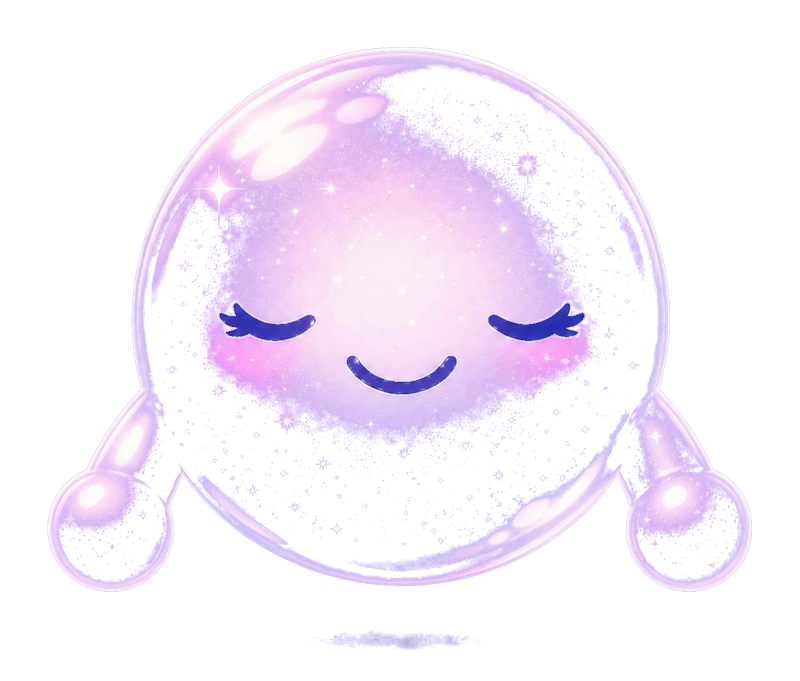
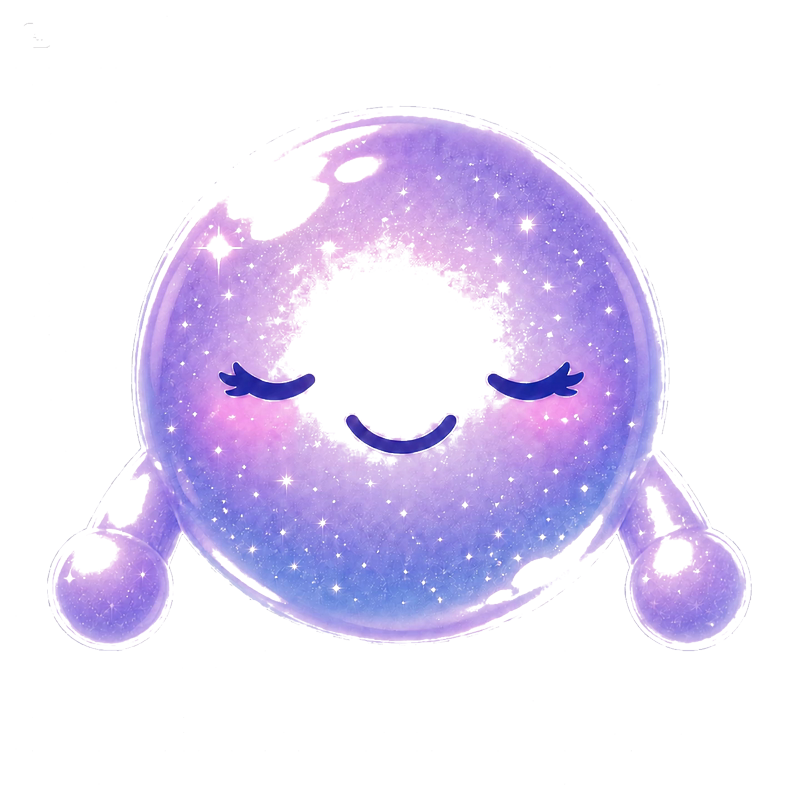
Re-key hero from clean white-bg source; brighten nav CTA
The new hero-loop.mp4 has a near-white background (#ebebeb) instead of
the previous purple, which sits much further from the orb's color in
RGB space. Re-encoded the webm with colorkey similarity 0.08 — orb body
stays fully opaque and saturated, no shadow blob, much cleaner edges.

Also swapped the nav "Join the waitlist" button from the dark ink fill
to the same purple gradient as the hero form button so the two CTAs
read as a set.

diff --git a/index.html b/index.html
@@ -144,13 +144,17 @@
   nav.top .links a { color: var(--ink-soft); text-decoration: none; }
   nav.top .links a:hover { color: var(--ink); }
   nav.top .cta {
-    background: var(--ink); color: var(--paper);
-    padding: 9px 16px; border-radius: var(--r-pill);
-    font-size: 14px; font-weight: 500;
+    color: white;
+    padding: 9px 18px;
+    border-radius: var(--r-pill);
+    font-size: 14px; font-weight: 600;
     text-decoration: none;
-    transition: transform .2s ease, box-shadow .2s ease;
+    background: linear-gradient(135deg, #7B3AED 0%, #A78BFA 50%, #ec7fbe 100%);
+    background-size: 200% 200%;
+    box-shadow: 0 6px 18px -8px rgba(123, 58, 237, .55), inset 0 1px 0 rgba(255,255,255,.4);
+    transition: transform .2s ease, background-position .4s ease;
   }
-  nav.top .cta:hover { transform: translateY(-1px); box-shadow: 0 8px 24px -8px rgba(30, 27, 75, .35); }
+  nav.top .cta:hover { transform: translateY(-1px); background-position: 100% 50%; }
   @media (max-width: 720px) { nav.top .links a:not(.cta) { display: none; } }
 
   /* ---------- HERO ---------- */